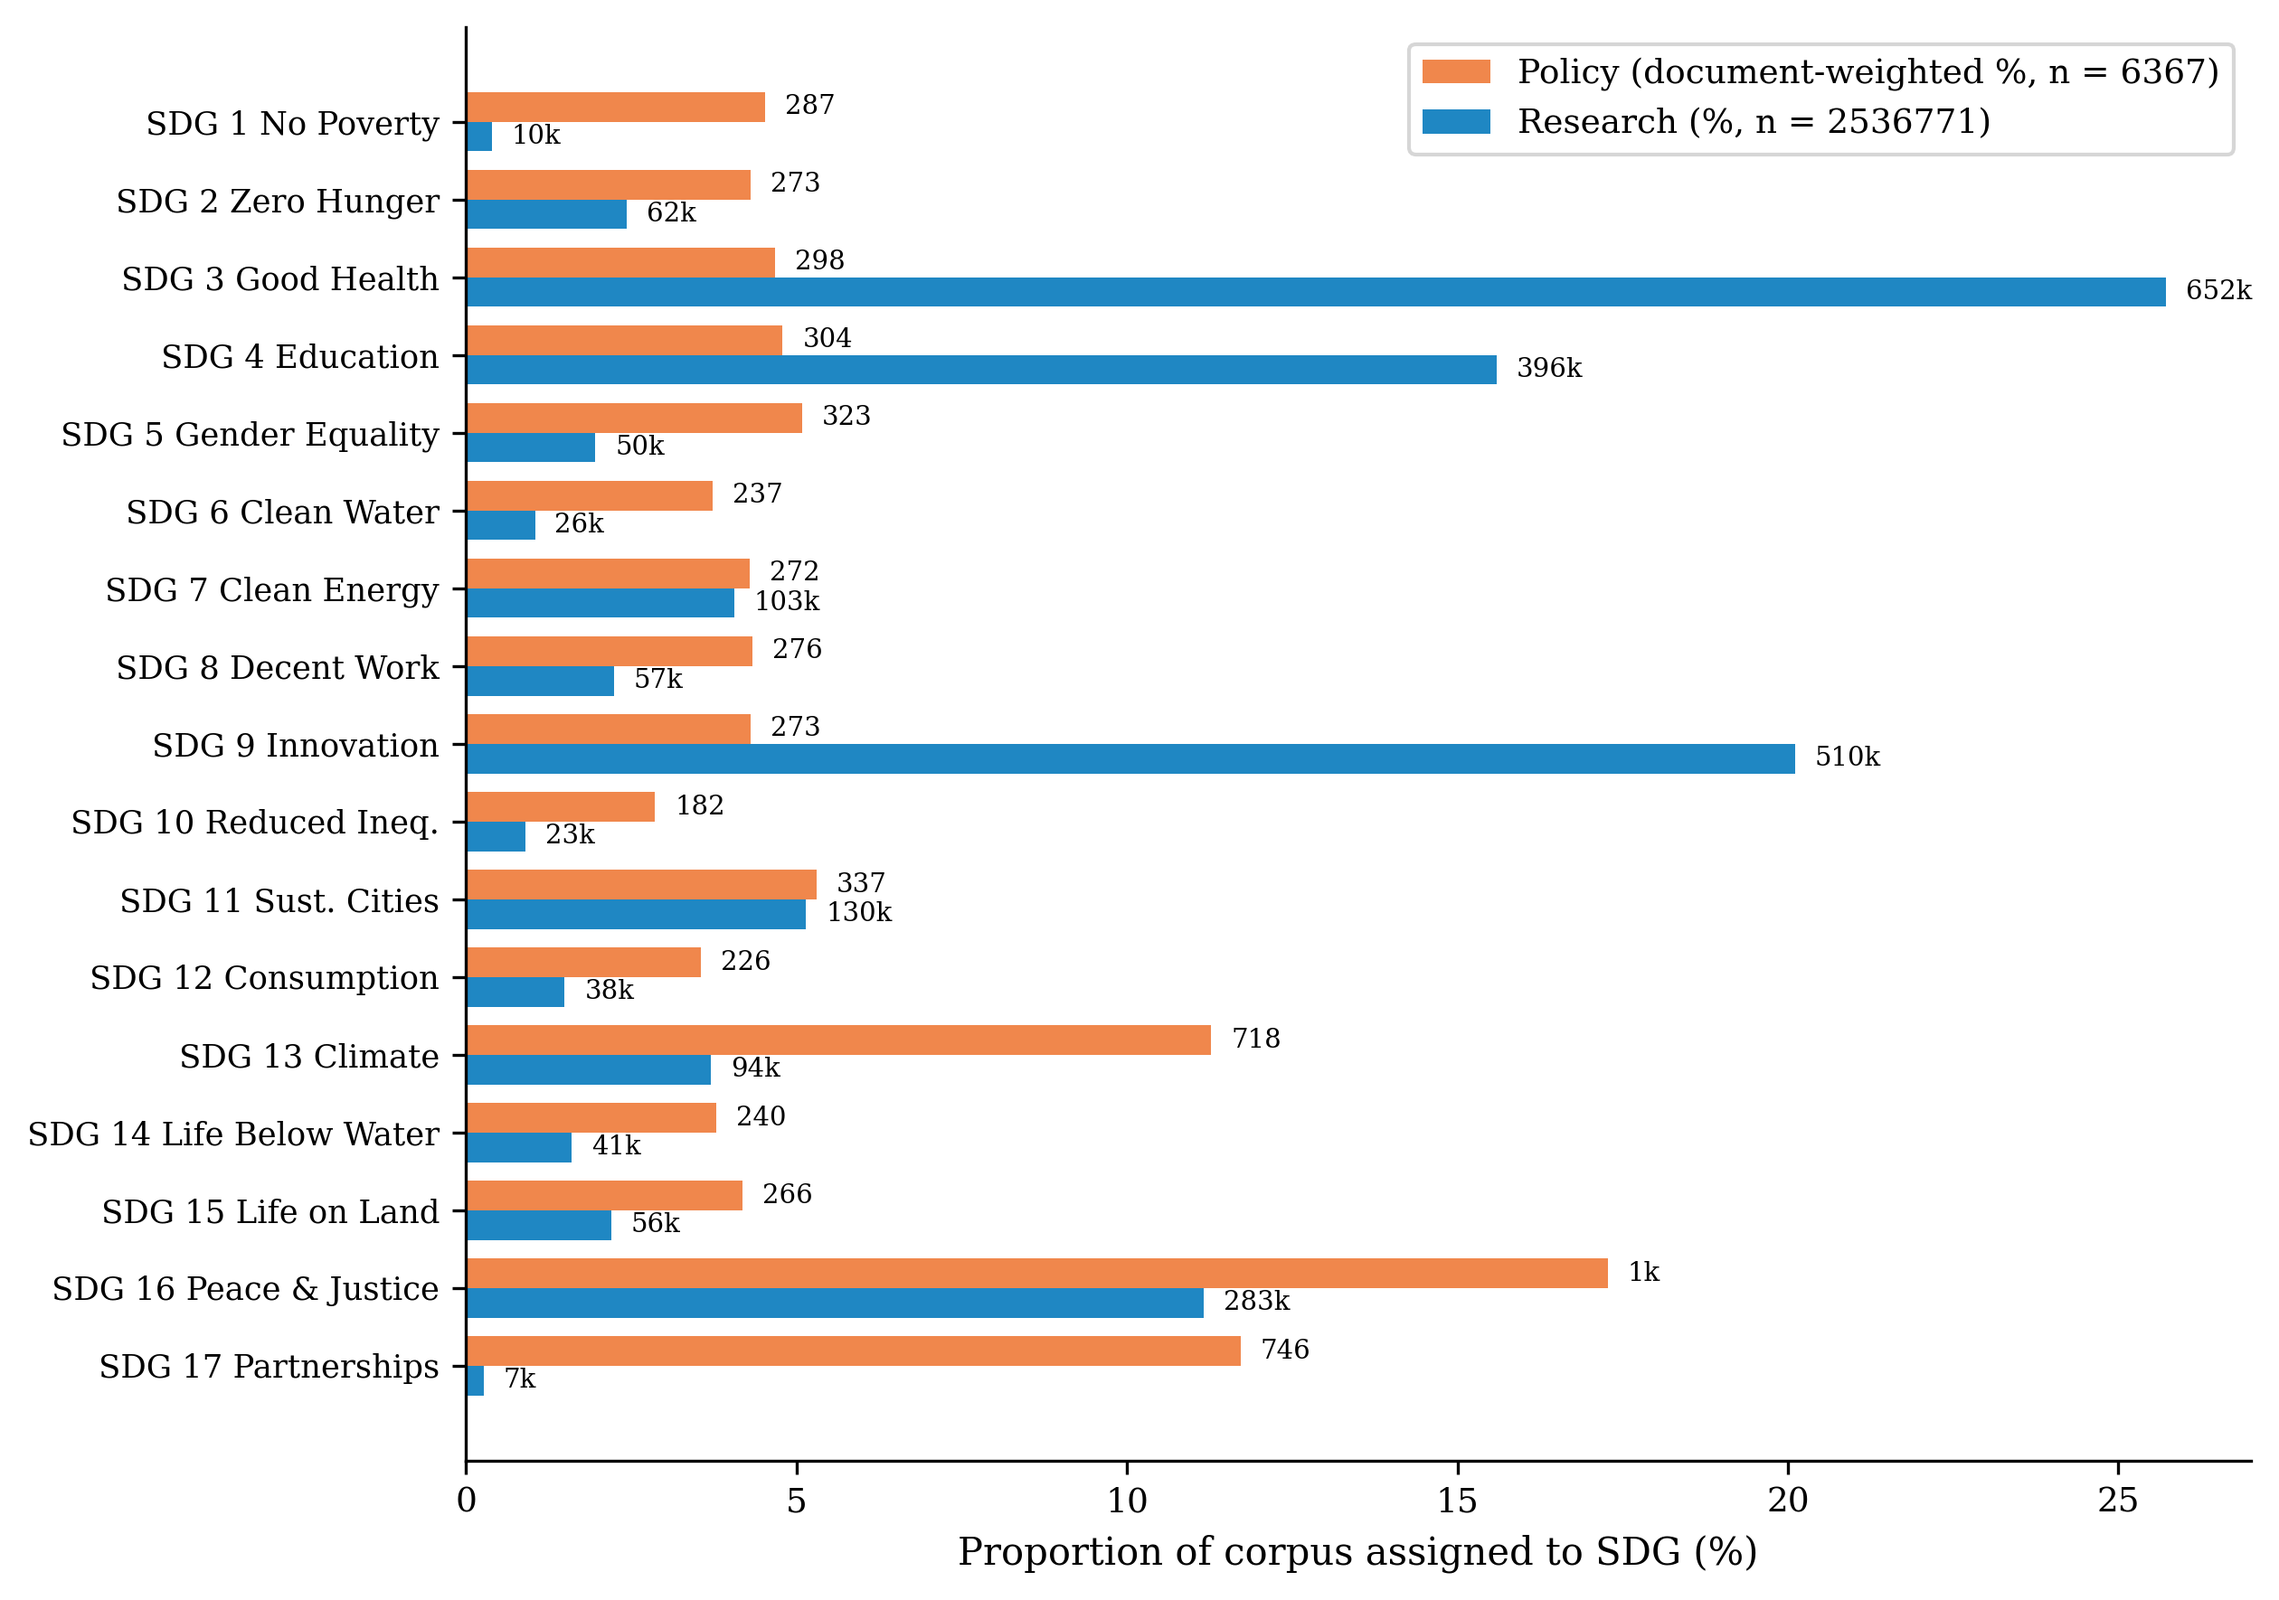
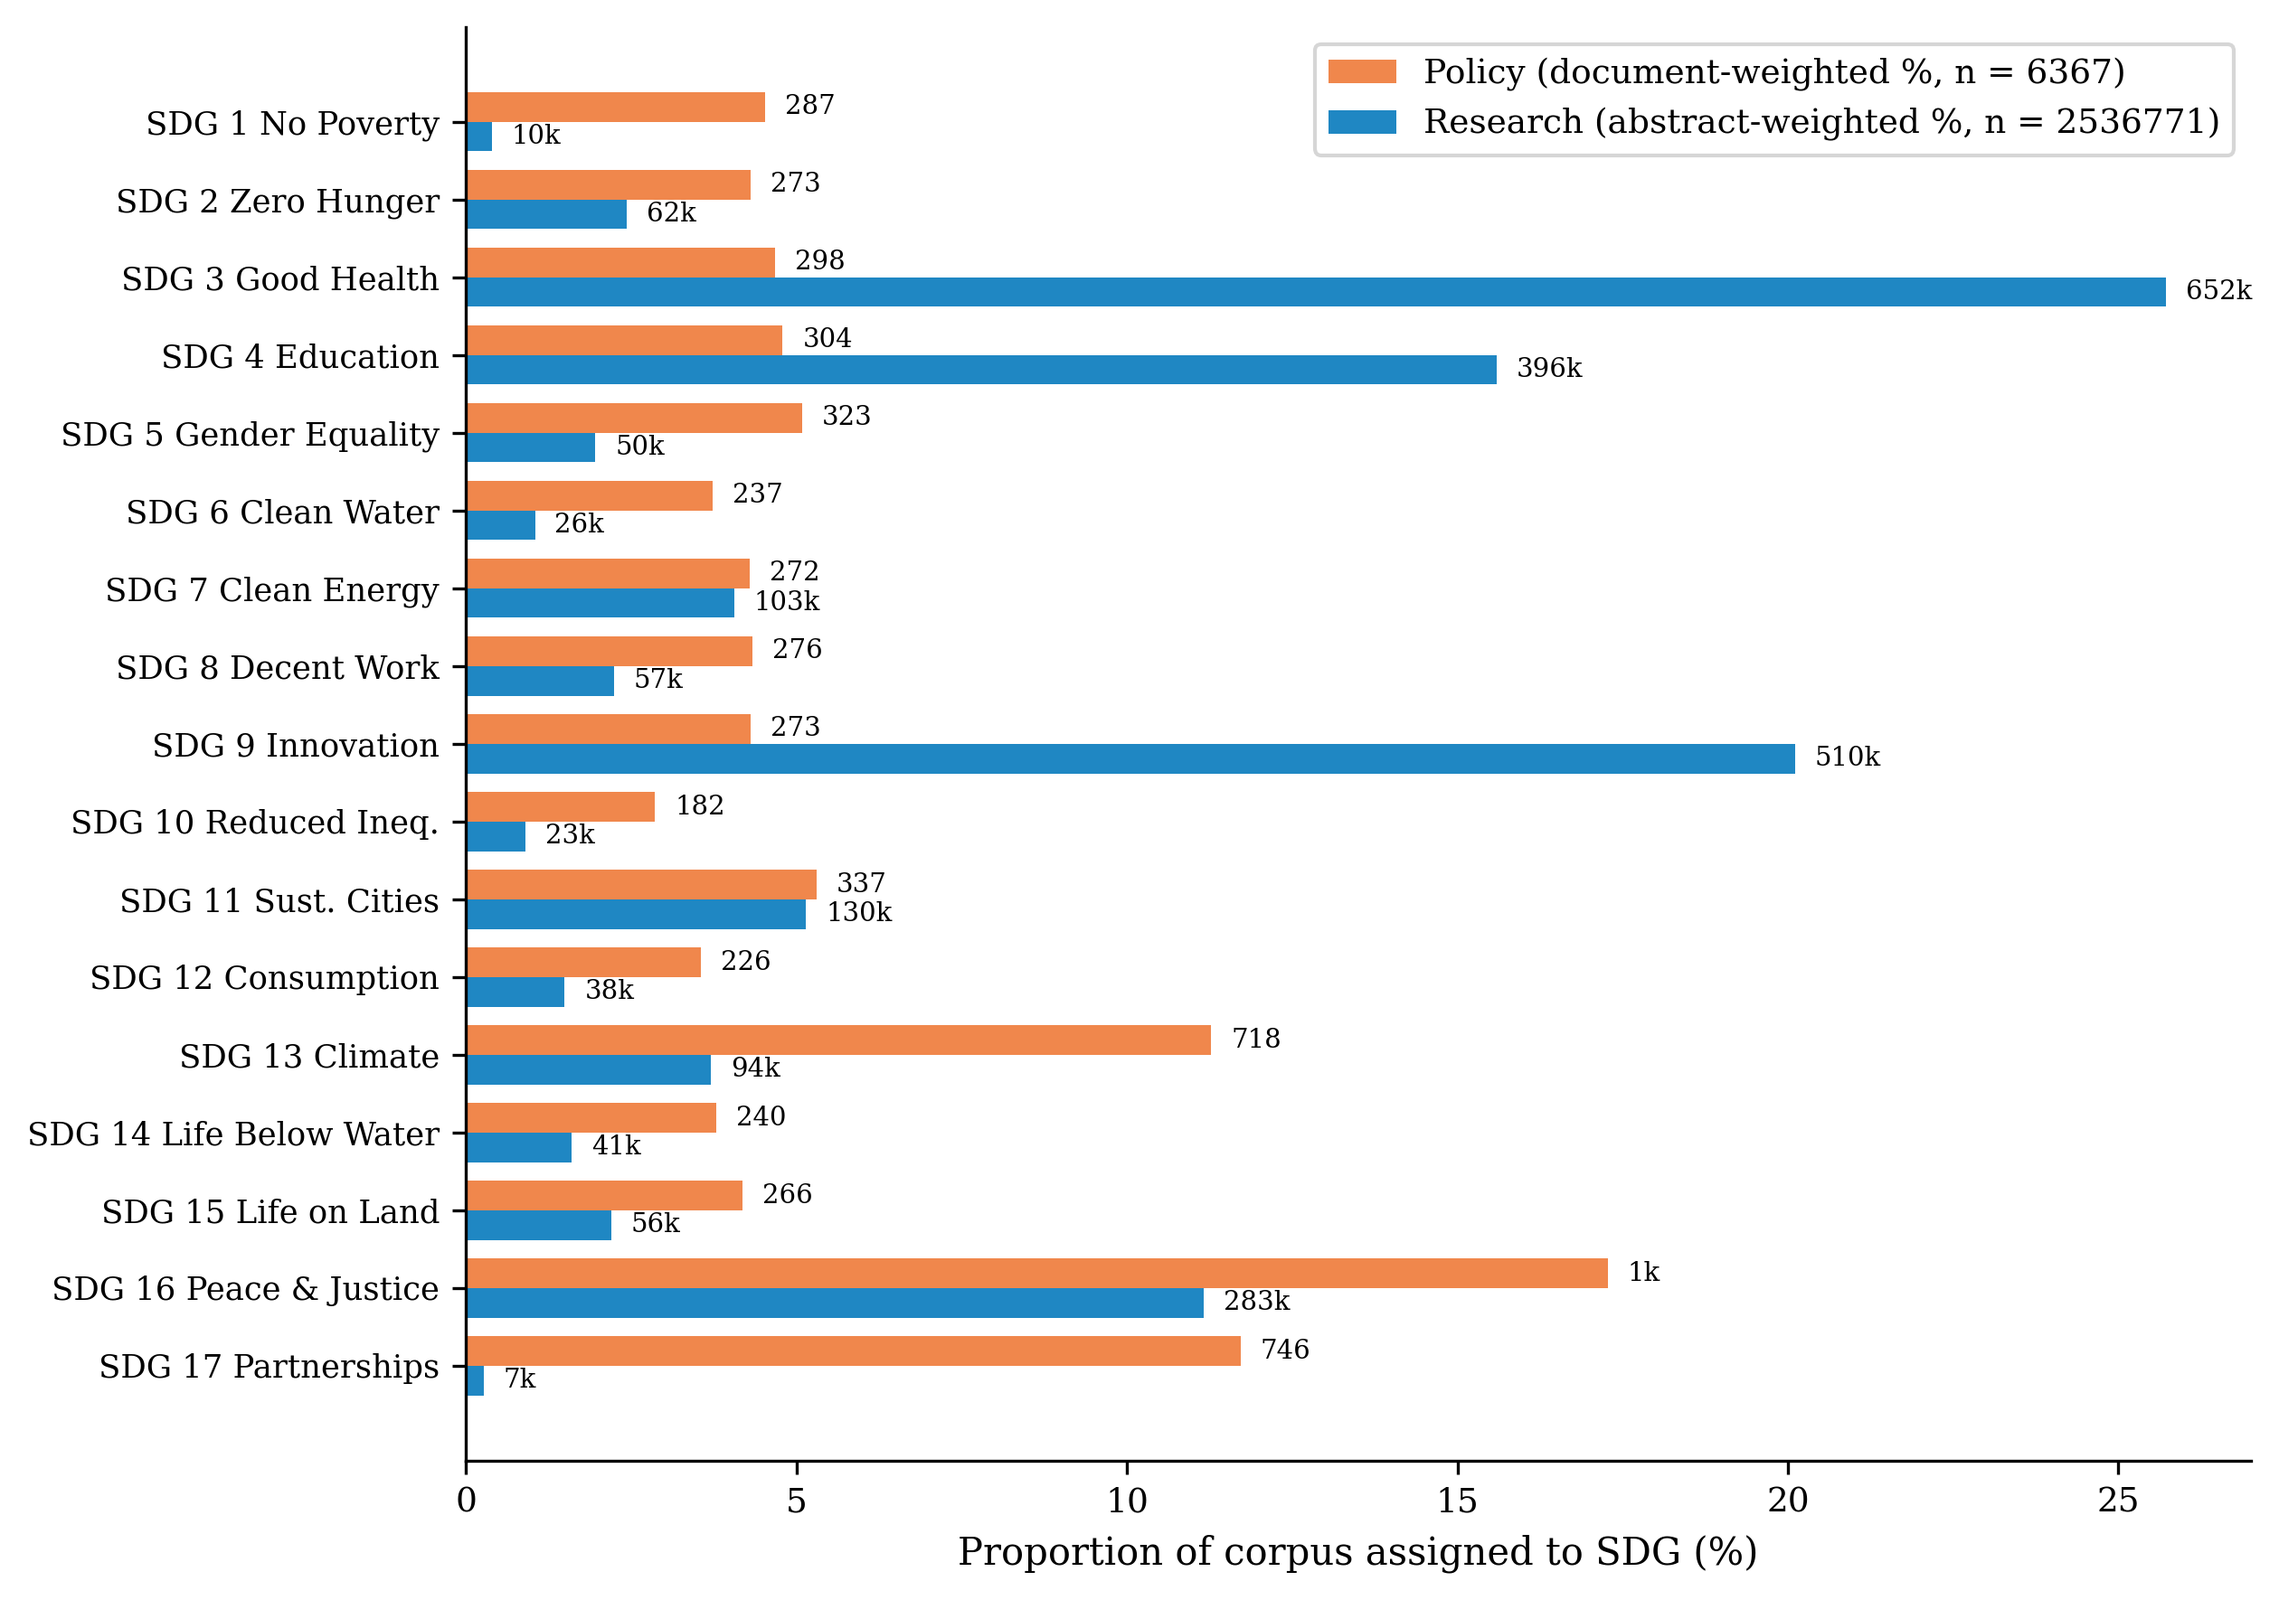
fig2: label research coverage legend as abstract-weighted

Changed region(s): [[0.5571, 0.0311, 0.9595, 0.0932]]

diff --git a/1_code/8_visualization/plot_figures.py b/1_code/8_visualization/plot_figures.py
@@ -211,7 +211,7 @@ def main() -> None:
         height=height,
         color=RESEARCH_COLOR,
         alpha=0.88,
-        label=f"Research (%, n = {N_RESEARCH_PAPERS})",
+        label=f"Research (abstract-weighted %, n = {N_RESEARCH_PAPERS})",
     )
 
     # Raw count annotations at bar ends
